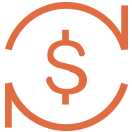
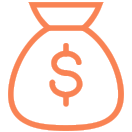
替换首页图片，完成分享界面的二维码，分享记录

diff --git a/js/page/store/StoreDetails.js b/js/page/store/StoreDetails.js
@@ -57,7 +57,7 @@ export default class StroeDetails extends BaseComponent {
                         shopName: this.info.shopName,
                         shopAddress: this.info.shopAddress,
                         shopPhone: this.info.shopPhone,
-                        imgHead: {uri: this.getImgUrl(this.info.imgHead)},
+                        imgHead: { uri: this.getImgUrl(this.info.imgHead) },
                     })
                 } else {
                     DialogUtils.showToast(result.msg)
@@ -74,28 +74,28 @@ export default class StroeDetails extends BaseComponent {
                     title={"店铺详情"}
                     navigation={this.props.navigation}
                 />
-                <View style={{flexDirection:"row",backgroundColor: mainColor ,padding:15,alignItems:"center"}}>
+                <View style={{ flexDirection: "row", backgroundColor: mainColor, padding: 15, alignItems: "center" }}>
                     <Image
-                        style={{ width: 60, height: 60, borderColor:"#d11",borderWidth:1,borderRadius:30}}
+                        style={{ width: 60, height: 60, borderColor: "#d11", borderWidth: 1, borderRadius: 30 }}
                         source={this.state.imgHead} />
-                        <View style={{flex:1,marginLeft:15,marginEnd:50}}>
-                        <Text style={{fontSize:16,color:"#fff",}}>{this.state.shopName}  {this.state.shopPhone}</Text>
-                        <Text style={{fontSize:14,color:"#fff",marginTop:5,}}>{this.state.shopAddress}</Text>
-                        </View>
-                        <TouchableOpacity
-                         onPress={()=>this.callStore(this.state.shopPhone)}
-                         >
+                    <View style={{ flex: 1, marginLeft: 15, marginEnd: 50 }}>
+                        <Text style={{ fontSize: 16, color: "#fff", }}>{this.state.shopName}  {this.state.shopPhone}</Text>
+                        <Text style={{ fontSize: 14, color: "#fff", marginTop: 5, }}>{this.state.shopAddress}</Text>
+                    </View>
+                    <TouchableOpacity
+                        style={{height:50,width:50}}
+                        onPress={() => this.callStore(this.state.shopPhone)}
+                    >
                         <Image
-                        style={{ width: 30, height: 30, marginLeft:-45,marginTop:-35}}
-                        source={require("../../../res/images/dianhua.png")}/>
-                         </TouchableOpacity>
+                            style={{ width: 33, height: 35, resizeMode:"center"}}
+                            source={require("../../../res/images/dianhua.png")} />
+                    </TouchableOpacity>
                 </View>
                 <View style={{ flex: 1, backgroundColor: "#f1f1f1" }}>
                     <RefreshFlatList
                         ref={refList => this.refList = refList}
                         numColumns={2}
-                        onRefreshs={() => this._refreshData()}
-                        onLoadData={() => this._onLoadData()}
+                        onRefreshs={() => this.getStoreDetail()}
                         renderItem={(items) => this._getStore(items)} />
 
                 </View>
@@ -103,7 +103,7 @@ export default class StroeDetails extends BaseComponent {
         );
     }
     //联系商家 //暂时返回失败， 可能要真机测试才可以
-    callStore(phone){
+    callStore(phone) {
         let url = 'tel: ' + phone;
         Linking.canOpenURL(url).then(supported => {
             if (!supported) {

diff --git a/js/util/HttpUtils.js b/js/util/HttpUtils.js
@@ -27,14 +27,14 @@ export default class HttpUtils {
         return new Promise((resolve, reject) => {
             fetch(url, {
                 method: 'POST',
-                // header: {
-                //     'Accept': 'application/json',
-                //     'Content-Type': 'application/json',
-                //     //'charset':'UTF-8'
-                // },
-                // body: JSON.stringify(data),
-                header:{},
-                body:formData,
+                header: {
+                    'Accept': 'application/json',
+                    'Content-Type': 'application/json',
+                    //'charset':'UTF-8'
+                },
+                 body: formData,
+                // header:{},
+                // body:formData,
             })
                 .then(response => response.json())
                 .then(result => {
@@ -64,7 +64,8 @@ export default class HttpUtils {
             var arr = a.split('/');
             // 获取文件名end
             // 判断文件的类型(视频-图片等)end
-            let file = { uri: imgAry[i].uri, type: imgAry[i].mime, name: arr[arr.length - 1] };   //这里的key(uri和type和name)不能改变,
+            //let file = { uri: imgAry[i].uri, type: imgAry[i].mime, name: arr[arr.length - 1] };   //这里的key(uri和type和name)不能改变,
+            let file = { uri: imgAry[i].uri, type: "application/octet-stream", name: arr[arr.length - 1] };   //这里的key(uri和type和name)不能改变,
             formData.append("file", file);   //这里的files就是后台需要的key
             //这里的files就是后台需要的key
         }
@@ -89,6 +90,50 @@ export default class HttpUtils {
                 alert("error:"+error.message)
             });
     }
+
+
+    // /**
+    //  * 上传文件
+    //  * 
+    //  * @param {*} obj obj型键值对
+    //  * @param {*} imgAry 文件数组
+    //  * @param {*} callback 成功回调方法
+    //  */
+    // static uploadImage(url,obj,imgAry,callback) {
+    //     DialogUtils.showLoading()
+    //     let formData = new FormData();       //因为需要上传多张图片,所以需要遍历数组,把图片的路径数组放入formData中
+    //     for (var i = 0; i < imgAry.length; i++) {
+    //         //截取获取文件名
+    //         var a = imgAry[i].uri;
+    //         var arr = a.split('/');
+    //         // 获取文件名end
+    //         // 判断文件的类型(视频-图片等)end
+    //         let file = { uri: imgAry[i].uri, type: imgAry[i].mime, name: arr[arr.length - 1] };   //这里的key(uri和type和name)不能改变,
+    //         formData.append("file", file);   //这里的files就是后台需要的key
+    //         //这里的files就是后台需要的key
+    //     }
+    //     for (const key in obj) {
+    //         formData.append(key, obj[key]);  
+    //     }
+    //     fetch(url, {
+    //         method: 'POST',
+    //         headers: {
+    //             'Content-Type': 'multipart/form-data',
+    //         },
+    //         body: formData,
+    //     })
+    //     .then((response) => response.json())
+    //     .then(result=>{
+    //         DialogUtils.hideLoading()
+    //         callback(result)
+    //     })
+    //     .catch((error) => {
+    //             DialogUtils.hideLoading()
+    //             DialogUtils.showToast("上传失败"+error.message)
+    //             alert("error:"+error.message)
+    //         });
+    // }
+
 
     //使用案例
     componentDidMount() {

diff --git a/js/page/BuyOrSellCentre.js b/js/page/BuyOrSellCentre.js
@@ -133,40 +133,40 @@ export default class BuyOrSellCentre extends BaseComponent {
             }}>
             <Image
                 style={{ width: 60, height: 60, borderWidth: 1, borderRadius: 30, borderColor: "#d11" }}
-                source={require("../../res/images/banben.png")} />
+                source={{uri:this.getImgUrl(data.item.imgHead)}} />
             <View style={{ flexDirection: 'column', flex: 1, marginLeft: 10, justifyContent: "center" }}>
                 <Text
-                    style={{ color: "#333333", fontSize: 18, }}>{data.item ? data.item.userName : "name"}</Text>
+                    style={{ color: "#333333", fontSize: 16, }}>{data.item ? data.item.userName : "name"}</Text>
                 {/* 信用值  */}
                 <View style={{ marginTop: 5, alignContent: "center" }}>
-                    {ViewUtils.getCreditView(data.item.userCredit, 15, 14, "#888")}
+                    {ViewUtils.getCreditView(data.item.userCredit, 13, 14, "#888")}
                 </View>
                 {/*支付方式 */}
-                {this.type === 0 ? <Text style={{
+                 <Text style={{
                     color: "#888",
-                    fontSize: 15,
+                    fontSize: 13,
                     marginTop: 5
                 }}
                     numberOfLines={1}
-                >支付方式:{data.item.name}</Text> : null}
+                >支付方式:{data.item.banqGenre}</Text> 
             </View>
 
             <View style={{ flexDirection: "column", backgroundColor: "#fff", marginTop: 5 }}>
                 <Text style={{
                     color: "#444",
-                    fontSize: 17,
+                    fontSize: 15,
                     alignSelf: "flex-end",
                 }}
                     numberOfLines={1}
-                >交易金额 {data.item.payNums} RMB</Text>
+                >交易金额 {data.item.payNums}</Text>
                 <Text style={{
                     color: "#888",
-                    fontSize: 14,
+                    fontSize: 13,
                     marginTop: 8,
                     alignSelf: "flex-end",
                 }}
                     numberOfLines={1}
-                >实付金额:{data.item.payNums} RMB</Text>
+                >实付金额:{data.item.payNums}</Text>
                 <TouchableOpacity
                     style={{
                         backgroundColor: "#d11",

diff --git a/js/page/SaoSaoView.js b/js/page/SaoSaoView.js
@@ -4,6 +4,7 @@ import {
     Text,
     View,
     TouchableOpacity,
+    Linking,
 } from 'react-native';
 import BaseComponent, { BaseStyles, mainColor } from "./BaseComponent";
 import NavigationBar from "../common/NavigationBar";
@@ -37,7 +38,7 @@ export default class SaoSaoView extends BaseComponent {
                     return (
                         <TouchableOpacity
                             activeOpacity={0.8}
-                            style={{zIndex: 1}}
+                            style={{ zIndex: 1 }}
                             onPress={() => this.props.navigation.goBack()}>
                             <NavigationBar
                                 title='扫一扫'
@@ -69,21 +70,41 @@ export default class SaoSaoView extends BaseComponent {
     onClicks(type) {
 
     }
-
     zIndex = 0;
     barcodeReceived(e) {
-        // let data =   JSON.parse(e)
-        // alert(JSON.stringify(data))
+        let data = JSON.parse(e.data)
+        // alert("扫描成功" + this.zIndex + JSON.stringify(e.data))
         this.zIndex += 1;
         if (this.zIndex === 1) {
-            DialogUtils.showToast("扫描成功" + this.zIndex + JSON.stringify(e))
-            this.props.navigation.goBack();
-            this.props.navigation.navigate('ZhuanChuNext', {
-                account: e.data,
-            })
+            //
+            //先解析类型
+            let type = data.type
+            switch (type) {
+                case "url":
+                    let url = data.data;
+                    contactBaidu(url)
+                    break;
+                case "id":
+                    let id = data.data;
+                    this.props.navigation.navigate('ZhuanChuNext', {
+                        account: data.data,
+                    })
+                    break;
+            }
             this.zIndex = 0
+            this.props.navigation.goBack();
         }
     }
+}
+//调用本地浏览器打开网页
+export const contactBaidu = (url) => {
+    Linking.canOpenURL(url).then(supported => {
+        if (!supported) {
+            DialogUtils.showToast("An error occurred:" + url)
+        } else {
+            return Linking.openURL(url);
+        }
+    }).catch(err => console.error('An error occurred', url));
 }
 export const Styles = StyleSheet.create({
     image_qqbrowser_light: {

diff --git a/js/page/SharedRecord.js b/js/page/SharedRecord.js
@@ -88,9 +88,11 @@ export default class SharedRecord extends BaseComponent {
      * @param {*} pageIndex 
      */
     getData(isRefesh) {
-        this.url = BaseUrl.shareRecord(this.userInfo.sessionId, this.pageIndex)
+        this.url = BaseUrl.shareRecord(this.userInfo.sessionId, this.pageIndex,this.state.keyword)
+        alert(this.url)
         HttpUtils.getData(this.url)
             .then(result => {
+               // alert(JSON.stringify(result))
                 if (result.code === 1) {
                     if (isRefesh) {
                         this.refList.setData(result.data)
@@ -165,10 +167,10 @@ export default class SharedRecord extends BaseComponent {
                         >手机号:{data.item ? data.item.mobile : "name"}</Text>
                     </View>
 
-                    <View style={{ flexDirection: 'column', justifyContent: "center", flex: 1, marginLeft: 10, marginRight: 10 }}>
+                    <View style={{ flexDirection: 'column', marginLeft: 10, marginRight: 10,alignItems:"flex-end" ,alignSelf:"flex-end"}}>
                         <Text
                             style={{
-                                color: "#fff", fontSize: 14, textAlign: "right",
+                                color: "#fff", fontSize: 14, 
                                 backgroundColor: data.item.useGrade === 3 ? "#d11" : "#999",
                                 paddingLeft: 10, paddingRight: 10, paddingTop: 5, paddingBottom: 5,
                             }}>{data.item.useGrade === 3 ? "VIP会员" : "初始会员"}</Text>

diff --git a/js/page/HomePage.js b/js/page/HomePage.js
@@ -188,11 +188,10 @@ export default class HomePage extends BaseComponent {
                         <View style={[BaseStyles.container_row, { flexWrap: 'wrap', }]}>
                             {this._itemView(() => this.onClicks(1), require('../../res/images/zhuanchu.png'), "转出")}
                             {this._itemView(() => this.onClicks(2), require('../../res/images/zhuanru.png'), "转入")}
-                            {this._itemView(() => this.onClicks(6), require('../../res/images/shangcheng.png'), "商城")}
-
                             {this._itemView(() => this.onClicks(3), require('../../res/images/mairu.png'), "买入")}
                             {this._itemView(() => this.onClicks(4), require('../../res/images/maichu.png'), "卖出")}
                             {this._itemView(() => this.onClicks(5), require('../../res/images/shuzi.png'), "数字资产")}
+                            {this._itemView(() => this.onClicks(6), require('../../res/images/shangcheng.png'), "超级商城")}
                         </View>
                     </View>
                 </ScrollView></View>

diff --git a/js/page/setting/SettingView.js b/js/page/setting/SettingView.js
@@ -7,7 +7,7 @@ import {
     View,
     TouchableOpacity,
 } from 'react-native';
-import BaseComponent, { BaseStyles, mainColor } from "../BaseComponent";
+import BaseComponent, { BaseStyles, mainColor ,upDataUserInfo} from "../BaseComponent";
 import NavigationBar from "../../common/NavigationBar";
 import ViewUtils from "../../util/ViewUtils";
 import DialogUtils from '../../util/DialogUtils';
@@ -112,10 +112,7 @@ export default class SettingView extends BaseComponent {
         HttpUtils.uploadImage(url, { sessionId: this.props.AppStore.userInfo.sessionId }, imgs, (result) => {
             if (result.code === 1) {
                 DialogUtils.showToast("上传成功")
-                uri: this.props.AppStore.userInfo.imgHead
-                this.setState({
-                    headImg: this.source
-                })
+                upDataUserInfo(this.props.AppStore)
             } else {
                 DialogUtils.showToast(result.msg)
             }

diff --git a/js/page/store/ShopDetails.js b/js/page/store/ShopDetails.js
@@ -91,11 +91,11 @@ export default class ShopDetails extends BaseComponent {
                 <ScrollView >
                     <View style={[BaseStyles.container_column, { backgroundColor: "#f1f1f1" }]}>
                         <TouchableOpacity
-                            // onPress={() => this.handleAsyncSelectPhoto(false, false)}
+                            onPress={() => this.handleAsyncSelectPhoto(false, false)}
                         ><Image
                                 style={{ flex: 1, width: window_width, height: window_height / 3 * 1.7, backgroundColor: "#fff" }}
                                 source={this.state.shopImage}
-                            />></TouchableOpacity>
+                            /></TouchableOpacity>
                         <View style={{ flexDirection: 'row', padding: 10 }}>
                             <Text
                                 style={{

diff --git a/js/page/WebView.js b/js/page/WebView.js
@@ -1,0 +1,23 @@
+import React, {Component} from 'react';
+import {
+    StyleSheet,
+    Text,
+    View,
+    WebView,
+    Linking,
+} from 'react-native';
+import BaseComponent ,{BaseStyles}from "./BaseComponent";
+
+
+export  default class Welcome extends BaseComponent {
+    constructor(props){
+        super(props);
+    }
+    render() {
+        return (
+            <WebView style={{width:'100%',height:'100%'}}>
+                <Text style={BaseStyles.container_row}> Welcome Wepay</Text>
+            </WebView>
+        );
+    }
+}

diff --git a/js/page/setting/LoginPage.js b/js/page/setting/LoginPage.js
@@ -25,11 +25,12 @@ export default class LoginPage extends BaseComponent {
     constructor(props) {
         super(props);
         this.state = {
-            //text: '26641',
-            text: '26536', 
-             // text: '18629448593',
+            // text: '26641',
+             //  text: '26536', 
+            // text: '18629448593',
            // text: '13923044417',
-            pwd: '123456',
+           text: '15989426734',
+           pwd: 'huazhongno1',
         }
     }
     componentDidMount() {

diff --git a/js/page/setting/SharePage.js b/js/page/setting/SharePage.js
@@ -21,8 +21,10 @@ export default class SharePage extends BaseComponent {
     constructor(props) {
         super(props);
         this.userInfo = this.getUserInfo();
+        let sharedUrl =this.getSharedUrl(this.userInfo.userid);
+        let json = {type:"url",data:sharedUrl}
         this.state = {
-            text: {type:"url",data:this.getSharedUrl(this.userInfo.userid)},
+            text: JSON.stringify(json),
         }
     }
     /**

diff --git a/js/page/ZhuanChuNext.js b/js/page/ZhuanChuNext.js
@@ -9,8 +9,6 @@ import {
 } from 'react-native';
 import BaseComponent, {BaseStyles, mainColor, window_width} from "./BaseComponent";
 import NavigationBar from "../common/NavigationBar";
-import QRCode from "react-native-qrcode";
-import ViewUtils from "../util/ViewUtils";
 import BaseUrl from '../util/BaseUrl';
 import DialogUtils from '../util/DialogUtils';
 import HttpUtils from '../util/HttpUtils';
